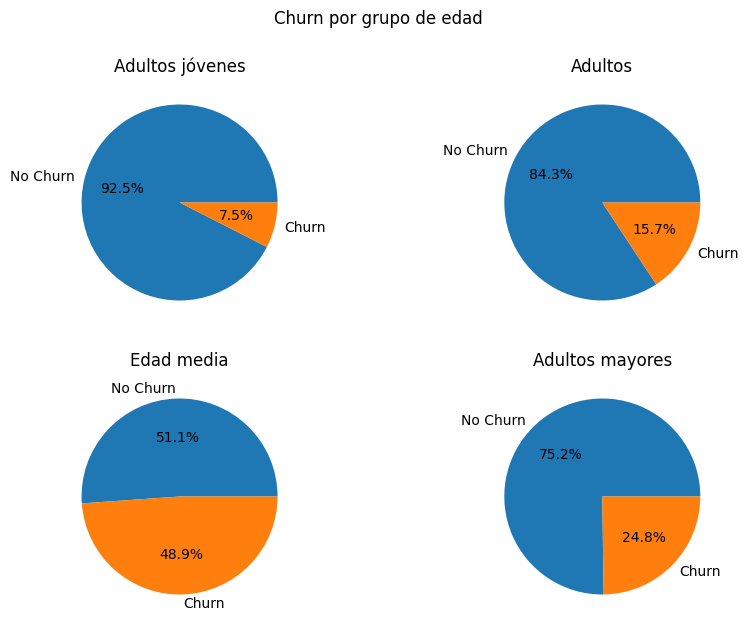
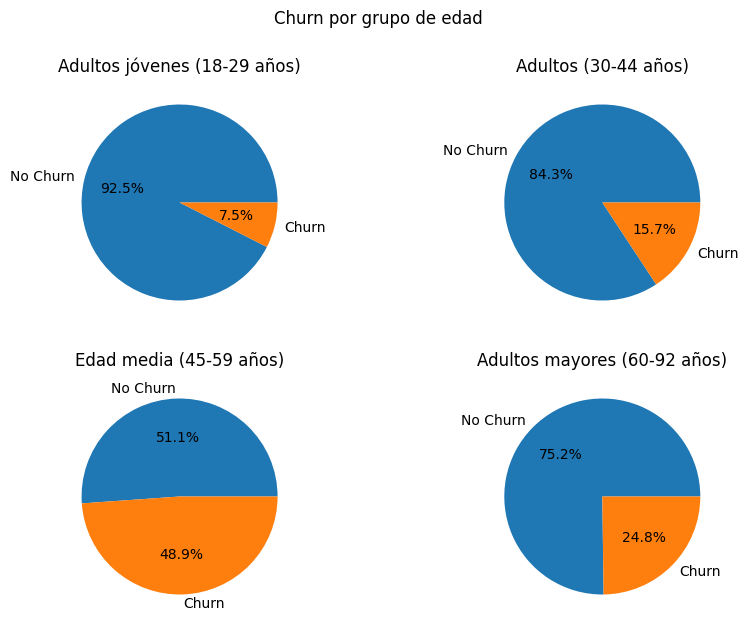
Fin del proyecto/Readme completo/Requirements con dependencias/Guardado de matrices de confusión

diff --git a/src/feature_engineering.py b/src/feature_engineering.py
@@ -1,4 +1,14 @@
 def generate_age_numproducts_score(row):
+    """
+    Asigna un valor numérico a cada grupo etario, también para el número de productos. Devolver el producto de la multiplicación
+    cada número asignado.
+
+    Args:
+        row (pd.Series): Serie que hace alución a 1 registro o fila del DataFrame.
+
+    Returns:
+        (int): Score obtenido.
+    """
     if row["AgeGroup"] == "Young adult":
         age_score = 4
 
@@ -23,6 +33,15 @@ def generate_age_numproducts_score(row):
     return age_score * ptj_numproducts
 
 def generate_balance_and_active_score(row):
+    """
+    Generar puntaje generando una tasa de multiplicador del balance, dependiendo de si es un miembro activo o no.
+
+    Args:
+        row (pd.Series): Serie que hace alución a 1 registro o fila del DataFrame.
+
+    Returns:
+        (int): Producto del multiplicador y balance.
+    """
     if row["IsActiveMember"] == 1:
         multiplier = 1.2
     if row["IsActiveMember"] == 0:
@@ -34,6 +53,15 @@ def generate_balance_and_active_score(row):
 
 
 def generate_AgeAndSalary_score(row):
+    """
+    Generar puntaje que hace alución al potencial o capacidad de compra de un cliente.
+
+    Args:
+        row (pd.Series): Serie que hace alución a 1 registro o fila del DataFrame.
+        
+    Returns
+        (int): Resultado de la división de EstimatedSalary entre Age
+    """
     score = row["EstimatedSalary"] / row["Age"]
 
     return score

diff --git a/README.md b/README.md
@@ -91,6 +91,90 @@ Gráficos base de esta decisión:
 ![Distribución de Salary en Exited](outputs/figures/exited_by_EstimatedSalary.png)
 
 
+## 🤖 ML
+Modelos utilizados:
+- LogisticRegression
+- RandomForestClassifier
+
+Se han realizado 2 versiónes para cada modelo, por lo cuál se presentarán cada uno por separado.
+
+### Modelo LogisticRegression
+#### V1
+Modelo de forma estándar y sin tuning. Se entiende que por un importante desbalanceo de clases, el modelo tiende a predecir que los usuarios no se irán, siendo un modelo muy conservador y que no atiende a las necesidades de la empresa. Debido a que el mayor objetivo es detectar quien abandona, no quien se queda.
+
+Métricas:
+Accuracy LogisticRegression_v1: 0.8485
+Precision LogisticRegression_v1: 0.6844262295081968
+F1 LogisticRegression_v1: 0.5243328100470958
+Recall LogisticRegression_v1: 0.42493638676844786
+Roc Auc LogisticRegression_v1: 0.688510508256657
+
+Matriz de confusión:
+![Confusion matrix in LR V1](outputs/confusion_matrixs/confusion_matrix_logisticregression_v1.png)
+
+#### V2
+Utilizando tuning como lo es el aumento de iteraciones y balanceo de clases, se obtiene un modelo bastante mejor, capaz de encontrar más posibles clientes con potencial de abandono, aunque permite un número ligeramente considerable de falsos positivos.
+
+Métricas:
+Accuracy LogisticRegression_v2: 0.7485
+Precision LogisticRegression_v2: 0.42445054945054944
+F1 LogisticRegression_v2: 0.5512934879571811
+Recall LogisticRegression_v2: 0.7862595419847328
+Roc Auc LogisticRegression_v2: 0.7627626272462557
+
+Matriz de confusión:
+![Confusion matrix in LR V2](outputs/confusion_matrixs/confusion_matrix_logisticregression_v2.png)
+
+### Modelo RandomForestClassifier
+#### V1
+Modelo de forma estándar y sin tuning. Debido al desbalanceo, identifica casi al 50% de los clientes que efectivamente se van, aunque obtiene mejores capacidades iniciales que LogisticRegression siguen siendo insuficientes.
+
+Métricas:
+Accuracy RandomForestClassifier_v1: 0.8635
+Precision RandomForestClassifier_v1: 0.75
+F1 RandomForestClassifier_v1: 0.5687203791469194
+Recall RandomForestClassifier_v1: 0.4580152671755725
+Roc Auc RandomForestClassifier_v1: 0.7103393075143576
+
+Matriz de confusión:
+![Confusion matrix in RFC V1](outputs/confusion_matrixs/confusion_matrix_randomforestclassifier_v1.png)
+
+#### V2
+Utilizando tuning, como lo es el aumento de n_estimators, balanceo de clases, etc. Se ha alcanzado un rendimiento superior considerando la cantidad de clientes identificados que se van, sin dar una cantidad muy comprometida de falsos positivos. Considerado como el mejor modelo en este ejercicio debido a su alineamiento con la intención final prioritaria de identificar a los clientes que se van.
+
+Métricas:
+Accuracy RandomForestClassifier_v2: 0.801
+Precision RandomForestClassifier_v2: 0.49592169657422513
+F1 RandomForestClassifier_v2: 0.6043737574552683
+Recall RandomForestClassifier_v2: 0.7735368956743003
+Roc Auc RandomForestClassifier_v2: 0.7906265685589922
+
+Matriz de confusión:
+![Confusion matrix in RFC V1](outputs/confusion_matrixs/confusion_matrix_randomforestclassifier_v2.png)
+
+## 🏆 Conclusiones finales y recomendaciones
+Los modelos generados de Machine Learning se considera que cumplen con los requisitos de la empresa, teniendo la capacidad de identificar en su gran mayoría a los clientes que potencialmente puedan abandonar los servicios, sobre todo en el modelo de RandomForestClassifier con su segunda versión la cual sigue teniendo muy buenas capacidades de detectar a los clientes que no son potenciales abandonadores.
+
+El análisis de los datos a traves de EDA permite identificar características que son más comunes en clientes que se van, además de brindar la posibilidad de generar las siguientes recomendaciones:
+
+1. Realizar campañas para obtener nuevos clientes principalmente en los países de Germany y Spain.
+
+2. Ofrecer importantes beneficios e incentivos para quedarse en el banco a los grupos etarios entre 45 y 59, siendo esta recomendación especialmente importante.
+
+3. Realizar una revisión de todos los clientes con 2 productos, identificar que productos son e incitar a los clientes a obtener esos 2 productos, dejando de lado la obtención de más. Debido a la alta tasa de abandono en 1, 3 y 4 productos.
+
+4. Realizar recordatorios a los clientes, que los ayude a ser más activos dentro del banco.
+
+Para terminar, se concluye que el análisis y trabajo generado en este dataset permite identificar las mayores características de los clientes que abandonan los servicios, obteniendo además un modelo de ML efectivo, ayudando de gran manera en la misión de fidelizar a los clientes.
+
+## Versión de python para el kernel
+- Python 3.11.9
+
+## Autor
+Carlos Rojas Villegas
+
+
+
 
 
 